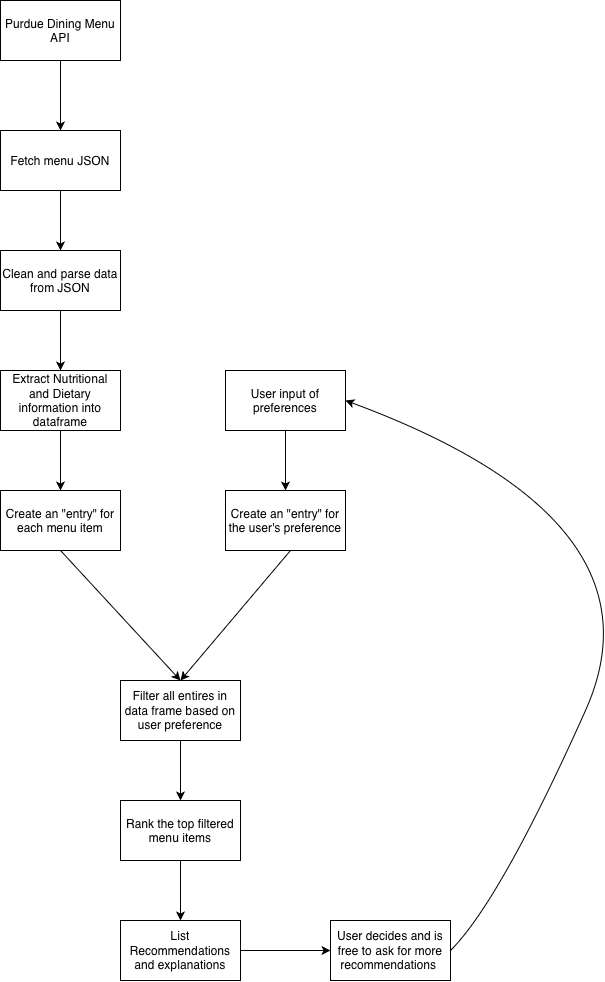
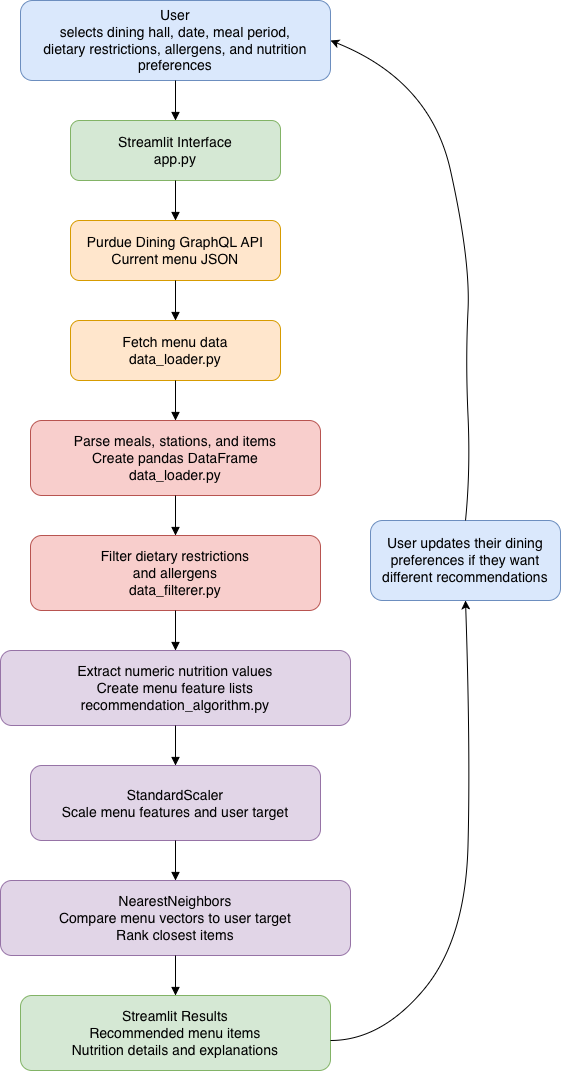
update README, add requirements.txt, add System Diagram, add additional comments

diff --git a/diningrecommendation/data_filterer.py b/diningrecommendation/data_filterer.py
@@ -54,18 +54,23 @@ def filter_dietary_restrictions(df: pd.DataFrame, diet_restriction: str, allerge
     if "None" in diet_restriction:
         diet_restriction = ""
         
+    # Checking for matching values of diet restrictions and allergens since the streamlit interface
+    # does not include the "-value" following the restriction or allergen name to ensure ease of readability
     if diet_restriction.lower() in restriction_columns.keys():
         diet_restriction = str(restriction_columns.get(diet_restriction.lower()))
+        
     for i, allergen in enumerate(allergens):
         if allergen.lower() in restriction_columns.keys():
             allergens[i] = restriction_columns.get(allergen.lower())
     
     allergen_columns = [allergen for allergen in df.columns.to_list() if allergen not in not_allergen]
     
+    # Only keeps rows that meet dietary restriction using a boolean mask
     for restriction in dietary_columns:
         if restriction in diet_restriction:
             df = df[~df[restriction].isna()]
     
+    # Only keeps rows that avoid selected allergens using a boolean mask
     for allergen in allergen_columns:
         if allergen in allergens:
             df = df[df[allergen].isna()]

diff --git a/diningrecommendation/recommendation_algorithm.py b/diningrecommendation/recommendation_algorithm.py
@@ -44,8 +44,11 @@ def recommend_item(df: pd.DataFrame, calories=None, protein=None, carbs=None, fa
     scaler = StandardScaler()
     
     warnings.filterwarnings("ignore", category=UserWarning)
-    X = scaler.fit_transform(df[list(user_preferences.keys())])
+    # Fit the scaler only to data columns that the user had a perference for
+    # Fitting to the entire dataset would lead to undesirable results
     
+    # Transform the data to ensure one nutrition value isn't a higher priority than the other
+    X = scaler.fit_transform(df[list(user_preferences.keys())])
     user_target = scaler.transform([list(user_preferences.values())])
 
     model = NearestNeighbors(n_neighbors=min(limit, len(df)))

diff --git a/diningrecommendation/app.py b/diningrecommendation/app.py
@@ -59,6 +59,9 @@ if st.button("Recommend items", type="primary"):
                     
                     diet_restrictions = []
                     known_allergens = []
+                    
+                    # Adds list of dietary restrictions and allergens for each item to 
+                    # each item container object in the streamlit interface
                     for col_name, value in row.items():
                         if pd.notna(value):
                             if col_name.partition("-")[0] in constants.ALLERGENS:

diff --git a/diningrecommendation/data_loader.py b/diningrecommendation/data_loader.py
@@ -107,6 +107,7 @@ def parse_data(json_data) -> pd.DataFrame:
                 if not inner_item:
                     continue
                 
+                # Enters another loop if a station has another "collection" of items in it
                 if (inner_item.get("components")):
                     
                     for component_item in inner_item.get("components"):

diff --git a/README.md b/README.md
@@ -1,31 +1,165 @@
-# Purdue-Dining-Recommendation
+# Purdue Dining Recommendation
 
-## Project Goal
+A Streamlit application that recommends Purdue dining menu items based on nutrition goals, dietary restrictions, and allergens.
 
-- Help Purdue students find meals matching their dietary restrictions, allergies, preferences, and nutrition goals.
-- Reduce the time spent searching through multiple dining menus.
+## The Problem
 
-## MVP Scope
+Purdue students may have difficulty finding dining options that match their dietary restrictions, allergies, and nutrition goals. Searching through multiple dining menus and nutrition labels can be time-consuming.
 
-- Fetch Purdue dining menu data.
-- Temporarily store API data as JSON.
-- Parse nutrition features into a pandas DataFrame.
-- Filter unwanted dietary, allergen, calorie, protein, and sodium features.
-- Rank compatible meals.
-- Display recommendations and explanations.
+This project helps students find menu items that meet their requirements with the click of a button.
 
-## Future Plans
+## How It Works
 
-- Improve recommendation explanations
-- Add nutrition visualizations
-- Add scheduled fetcher for daily meal updates at dining halls based on a provided preference
+1. The user selects a dining hall, date, and meal period.
+2. The user enters their preferred nutrition goals and dietary/allergen information.
+3. The application fetches menu data from the Purdue Dining API.
+4. The API response is parsed into a pandas DataFrame.
+5. Items that violate dietary, allergen, or nutrition requirements are removed.
+6. Nutrition features are standardized.
+7. `NearestNeighbors` ranks the remaining items based on the user’s nutrition preferences.
+8. Streamlit displays the recommended items and explains each match alongisde displaying dietary/allergen information.
+
+\
+![System Diagram](System%20Diagram.png)
 
 ## Tech Stack
 
-- Python: programming language
-- pandas: data storage and filtering
-- NumPy: nutrition calculations
-- scikit-learn `NearestNeighbors`: rank meal recommendations
-- Streamlit: display results
-- `requests` and JSON: fetch and temporarily store API data
-- Git/GitHub: version control and documentation
+- Python — programming language
+- pandas — DataFrame storage and filtering
+- requests — API requests
+- JSON — temporary API data format
+- scikit-learn — `StandardScaler` and `NearestNeighbors`
+- Streamlit — user interface
+- pytest — testing
+- Git/GitHub — version control and documentation
+- Purdue Dining API — menu, nutrition, dietary, and allergen data
+
+## Setup and Installation
+
+### Prerequisites
+
+This project requires:
+
+- Python 3.10 or newer
+- `pip`
+- Internet access for Purdue Dining API requests
+
+Check whether Python and pip are installed:
+
+```bash
+python3 --version
+python3 -m pip --version
+```
+
+If these commands do not work, install Python from:
+
+https://www.python.org/downloads/
+
+pip is included with most modern Python installations.
+
+### 1. Clone the Repository
+
+```bash
+git clone <https://github.com/VaibhavMohankumar/Purdue-Dining-Recommendation.git>
+cd Purdue-Dining-Recommendation
+```
+
+### 2. Create a Virtual Environment
+
+```bash
+python3 -m venv .venv
+source .venv/bin/activate
+```
+
+On Windows:
+
+```bash
+.venv\Scripts\activate
+```
+
+### 3. Install Dependencies
+
+```bash
+pip install requirements.txt
+```
+
+### 4. Run the Application
+
+```bash
+cd diningrecommendation
+streamlit run app.py
+```
+
+### 5. Run the Tests
+
+```bash
+# Enter directory if not already in the directory: Purdue-Dining-Recommendation/diningrecommendation
+cd diningrecommendation 
+python -m pytest
+```
+
+## Example
+
+### Example Input
+
+```text
+Dining location: Wiley
+Menu date: 2026-11-12
+Meal period: Lunch
+Dietary restriction: Vegetarian
+Allergens: Gluten
+Desired calories: 400
+Desired protein: 20g
+Desired carbohydrates: 20g
+Desired fat: 30g
+Number of recommendations: 5
+```
+
+### Example Output
+
+```text
+Paneer Curry
+Gluten Friendly
+
+Closest nutrition match:
+521 calories, 22g protein, 6g carbs, and 47g fat.
+
+Meets dietary restrictions for: Vegetarian
+Contains: Milk
+```
+
+The exact menu items and recommendations change because the application uses live data from Purdue Dining API data.
+
+## Roadmap
+
+- [x] Define the project problem and MVP scope
+- [x] Create the project README
+- [x] Create the system diagram
+- [x] Connect to the Purdue Dining API
+- [x] Parse nested meal, station, and item data
+- [x] Store parsed data in a pandas DataFrame
+- [x] Convert nutrition values into numeric values
+- [x] Filter items by nutrition requirements
+- [x] Filter items by dietary restrictions
+- [x] Filter items by allergens
+- [x] Implement the `NearestNeighbors` recommendation algorithm
+- [x] Build the Streamlit interface
+- [x] Add tests for major functions
+- [ ] Add custom meals made from multiple station items
+- [ ] Add nutrition visualizations
+- [ ] Add scheduled fetcher for daily meal update
+- [ ] Add user feedback to improve recommendations
+
+
+## Demo
+
+[Watch the project walkthrough](<link>)
+
+The walkthrough demonstrates:
+
+- Selecting a dining hall and meal period
+- Entering nutrition preferences
+- Selecting dietary restrictions and allergens
+- Fetching current menu data
+- Filtering menu items
+- Viewing ranked recommendations
